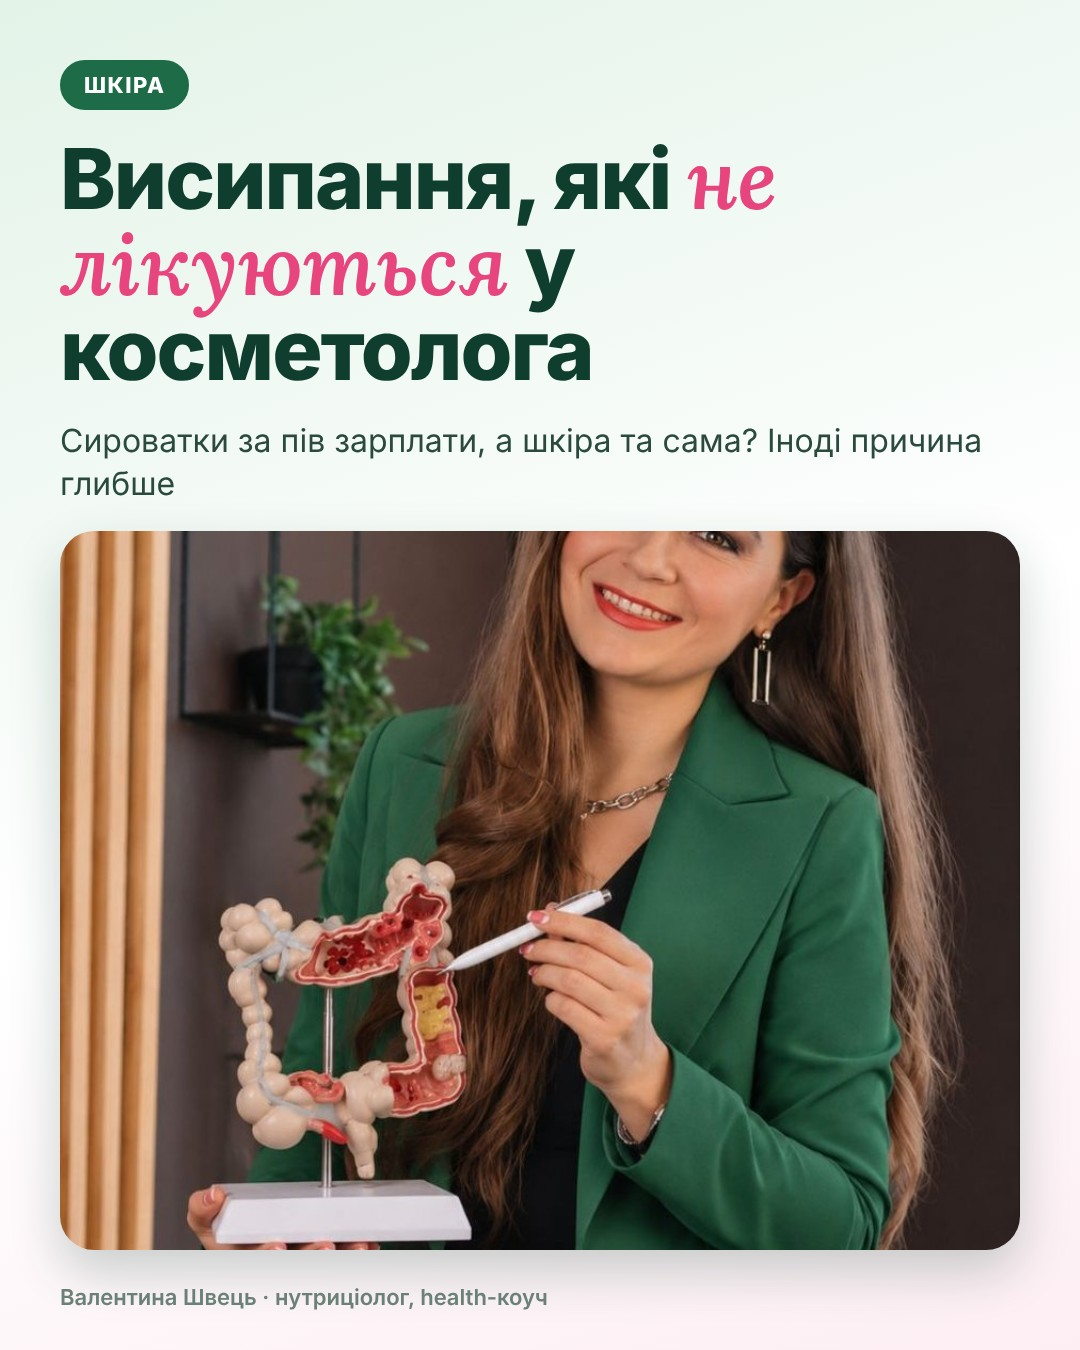
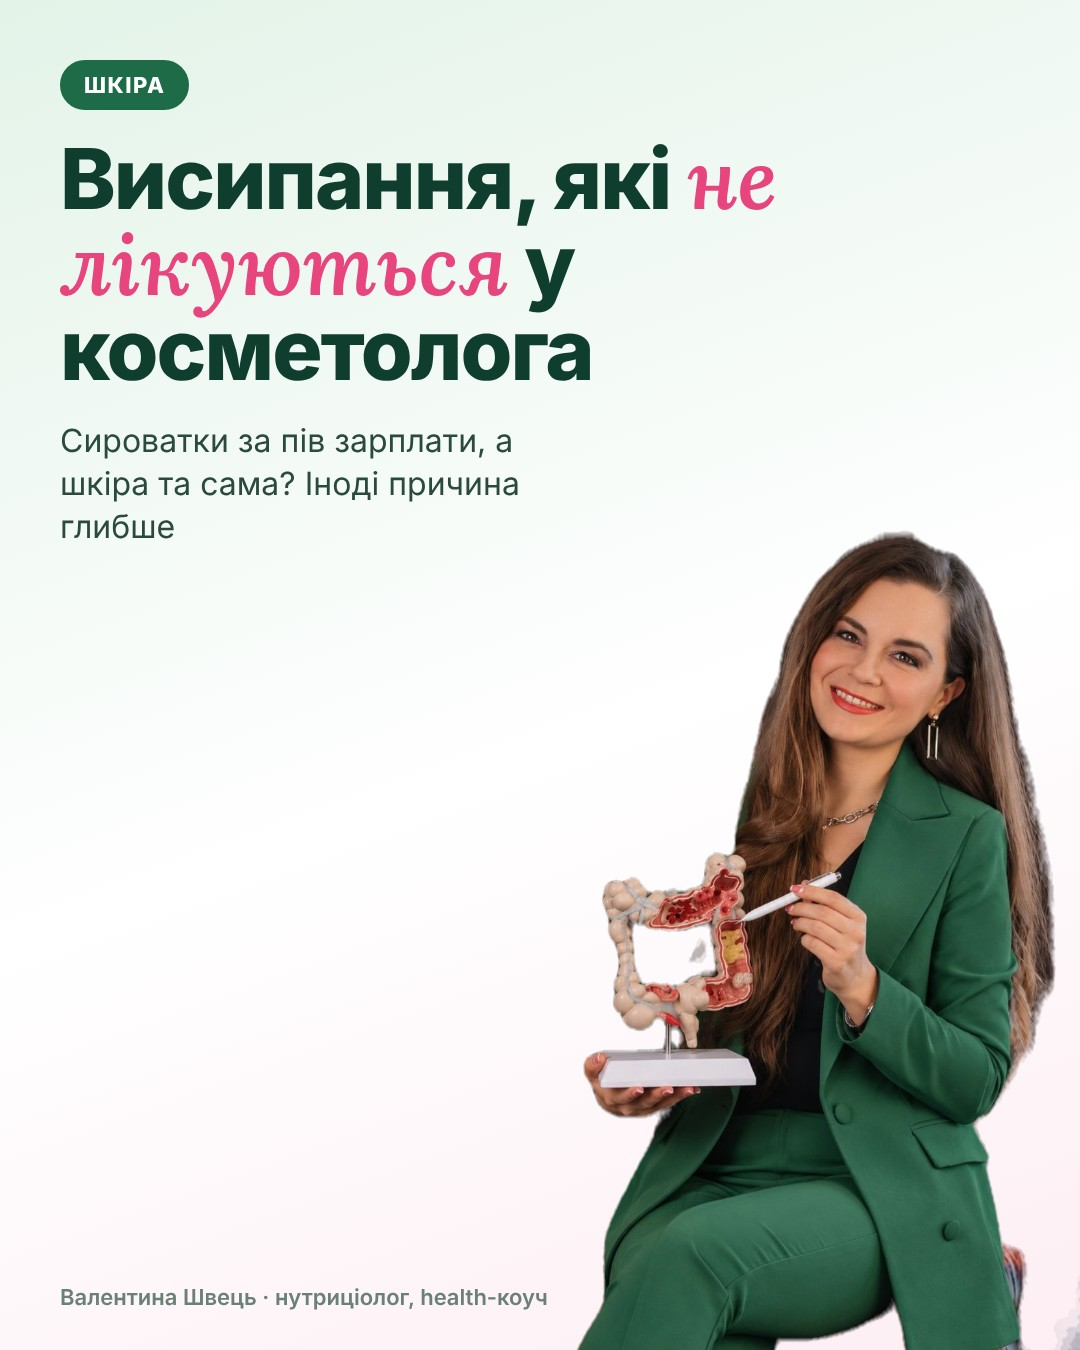
Каруселі: фото Валентини вирізане з фону; k6 сьогодні
Claude-Session: https://claude.ai/code/session_01P95tyL1PPecuZWfpcGvJVw

diff --git a/tools/posts2/build.py b/tools/posts2/build.py
@@ -27,7 +27,7 @@ em{{font-family:Lora;font-style:italic;font-weight:600;color:{P};letter-spacing:
 .ph img{{width:100%;height:100%;object-fit:cover}}
 .cta{{background:linear-gradient(160deg,#145c3b,#0b2f22);color:#fff}}
 .word{{display:inline-block;background:#fff;color:{P};font-weight:900;font-size:76px;letter-spacing:2px;padding:14px 40px;border-radius:24px}}
-.disc{{position:absolute;left:60px;right:60px;bottom:40px;font-size:20px;opacity:.75}}
+.disc{{position:absolute;left:60px;width:520px;bottom:40px;font-size:20px;opacity:.75}}
 """
 NAME = "Валентина Швець · нутриціолог, health-коуч"
 
@@ -37,6 +37,12 @@ def doc(body, cls=""):
 
 
 def cover(tag, title, sub, img, pos="center"):
+    if img in ("val1.jpg", "val2.jpg"):
+        cut = img.replace(".jpg", "_cut.png")
+        return doc(f"""<img src="{cut}" style="position:absolute;right:-10px;bottom:0;height:820px">
+<div style="position:absolute;left:60px;right:60px;top:60px;display:flex;flex-direction:column;gap:26px">
+<div><span class="tag f">{tag}</span></div><h1>{title}</h1><div class="sub" style="width:480px">{sub}</div></div>
+<div class="foot">{NAME}</div>""")
     return doc(f"""<div style="position:absolute;left:60px;right:60px;top:60px;bottom:100px;display:flex;flex-direction:column;gap:26px">
 <div><span class="tag f">{tag}</span></div><h1>{title}</h1><div class="sub">{sub}</div>
 <div class="ph" style="position:relative;flex:1;min-height:380px"><img src="{img}" style="object-position:{pos}"></div></div>
@@ -66,7 +72,8 @@ def cta(n, total, tag, title, text, word, after, img):
 <div style="position:absolute;left:60px;top:800px;font-size:30px;color:#e3f3e8">Напишіть у коментарях слово</div>
 <div style="position:absolute;left:60px;top:860px"><span class="word">{word}</span></div>
 <div style="position:absolute;left:60px;top:1010px;font-size:30px;color:#e3f3e8">{after} ❤</div>
-<div class="ph" style="right:50px;top:300px;width:360px;height:560px"><img src="{img}" style="object-position:center 20%"></div>
+<img src="{img.replace('.jpg', '_cut.png')}" style="position:absolute;right:-30px;bottom:0;height:780px">
+
 <div class="disc">Інформація має ознайомчий характер і не замінює консультації спеціаліста</div>""", "cta")
 
 

diff --git a/instaposts.py b/instaposts.py
@@ -43,7 +43,7 @@ POSTS = [
      "А 10 основних причин закрепів і що з ними робити розбираємо в окремій темі інтенсиву «Здоровий кишківник».\n\n"
      "Напишіть у коментарях КИШКІВНИК, і я надішлю подробиці."),
     # 18.11.2026: тригерні теми Валентини (файл від Тетяни), стокові фото під тему + її фото + відгуки. Збирач tools/posts2/build.py
-    ("k6", "2026-11-19 09:00", "«Висипання, які не лікуються у косметолога» (слово КИШКІВНИК)",
+    ("k6", "2026-11-18 09:00", "«Висипання, які не лікуються у косметолога» (слово КИШКІВНИК)",
      "Сироватки за пів зарплати, а шкіра та сама? Іноді причина висипань глибше: у кишківнику, жовчі та мікрофлорі 😉\n\nМожливо, ви зараз думаєте: «Я вже все перепробувала, і нічого не допомагає». Я розумію цю втому. Креми працюють з поверхнею, а коли налагоджується травлення, шкіра дуже часто відповідає першою.\n\n"
      "У каруселі чому так буває, з чого почати і відгук дівчини, в якої шкіра очистилась, щойно налагодили кишківник.\n\n"
      "Як харчування і мікрофлора впливають на шкіру, розбираємо на інтенсиві «Здоровий кишківник», старт 24 листопада.\n\n"

diff --git a/changelog.py b/changelog.py
@@ -10,9 +10,11 @@ import db
 
 log = logging.getLogger("changelog")
 
-VERSION = "2026-11-18-2"
+VERSION = "2026-11-18-3"
 NOTES = [
     "Каруселі на 19-29 листопада перезібрано за «Стратегом»: у кожній новий слайд «Ви думаєте» з сумнівом читачки її словами і спокійною відповіддю, з фото Валентини",
+    "Фото Валентини в каруселях тепер вирізані з фону і стоять повністю, без обрізаної рамки",
+    "Карусель про висипання приходить сьогодні (18.11), решта за розкладом о 9:00",
     "В описах до каруселей додано абзац з цим сумнівом і відповіддю, далі одна дія: слово в коментарях",
 ]
 
